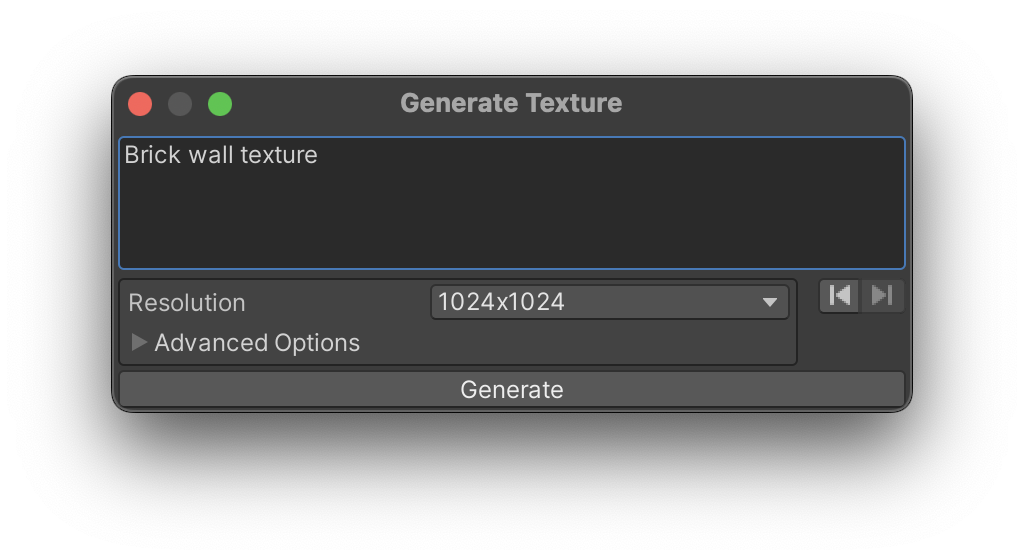
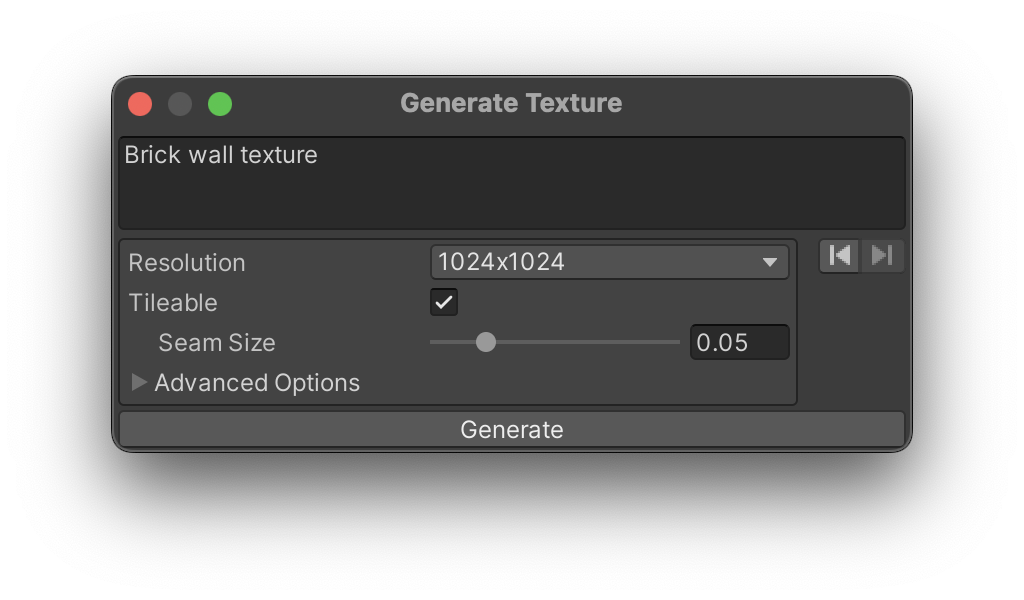
images update

Changed region(s): [[0.0938, 0.3946, 0.9062, 0.7589], [0.0938, 0.1214, 0.9062, 0.3036]]

diff --git a/_docs/40.getting-started.md b/_docs/40.getting-started.md
@@ -152,8 +152,8 @@ When the generation is completed. you will see the following options:
 - **Discard and Generate Again** - This will discard the generated image and will generate another image without closing this window.
 - **Done** - This will close the window and will save the generated image to the folder set in [Output Path](/getting-started/#general-settings) (by default, it is `Assets/Generated`).
 
-<a href="/assets/images/manual_images/dall-e-generated-texture-window.png">
-!['Generated texture window' menu item](/assets/images/manual_images/dall-e-generated-texture-window.png){: .image-simple }
+<a href="/assets/images/manual_images/dall-e-generated-texture-window-seamless-1">
+!['Generated texture window' menu item](/assets/images/manual_images/dall-e-generated-texture-window-seamless-1){: .image-simple }
 </a>
 
 {:.image-caption}
